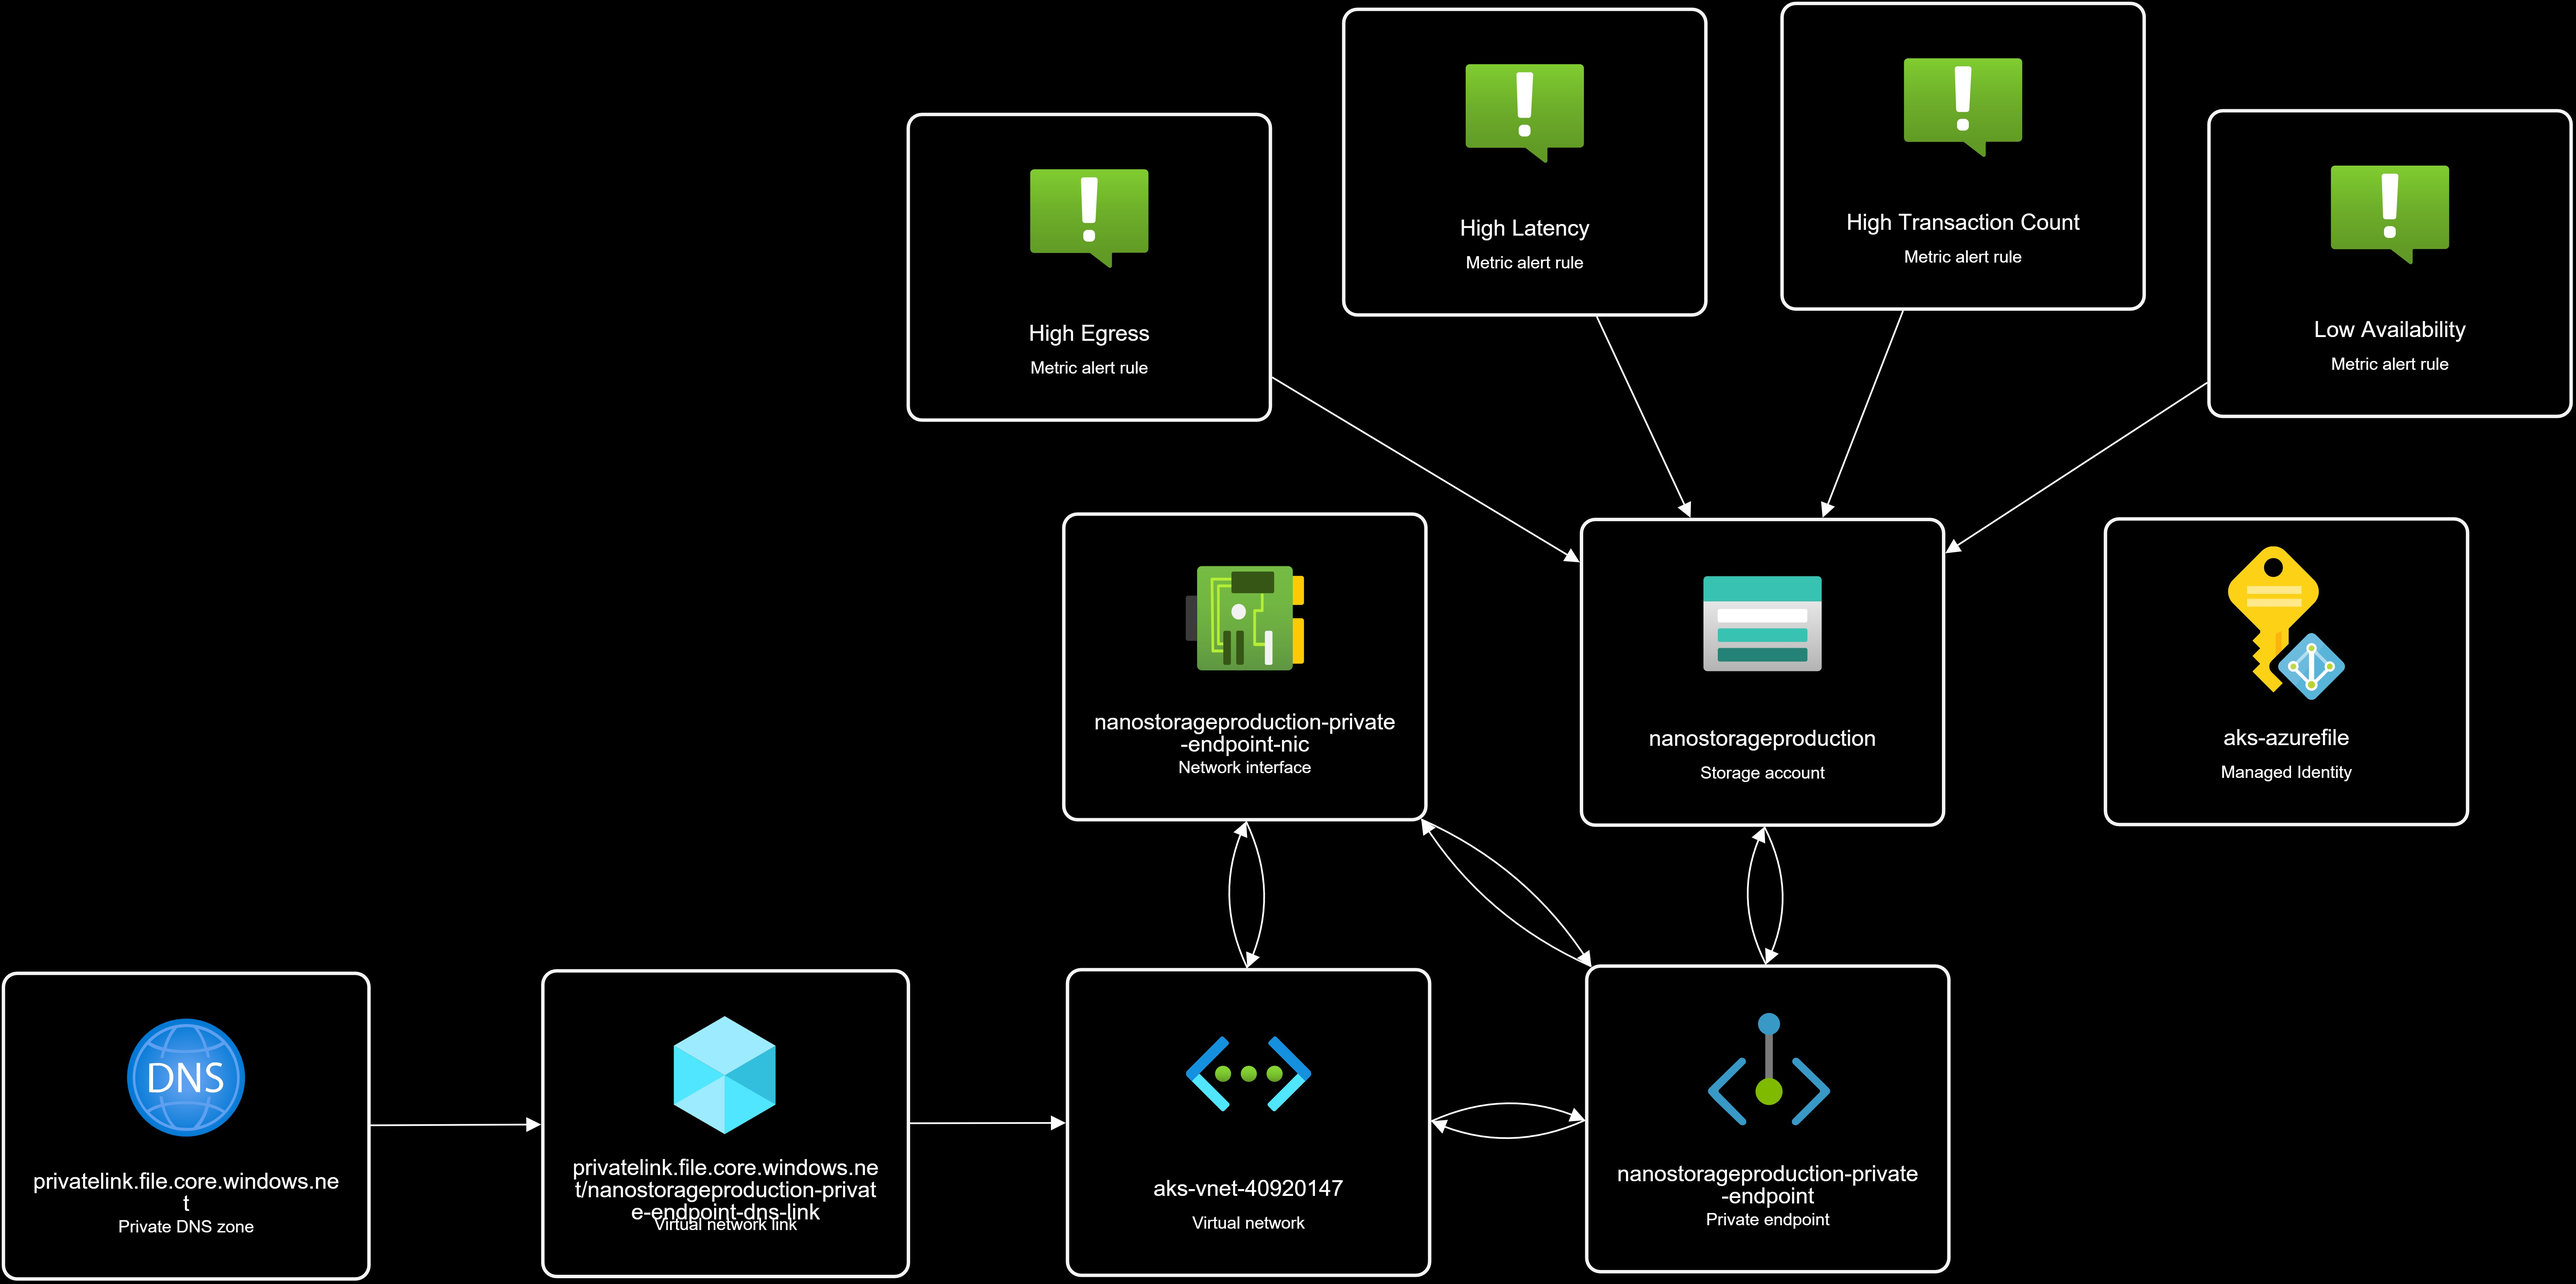
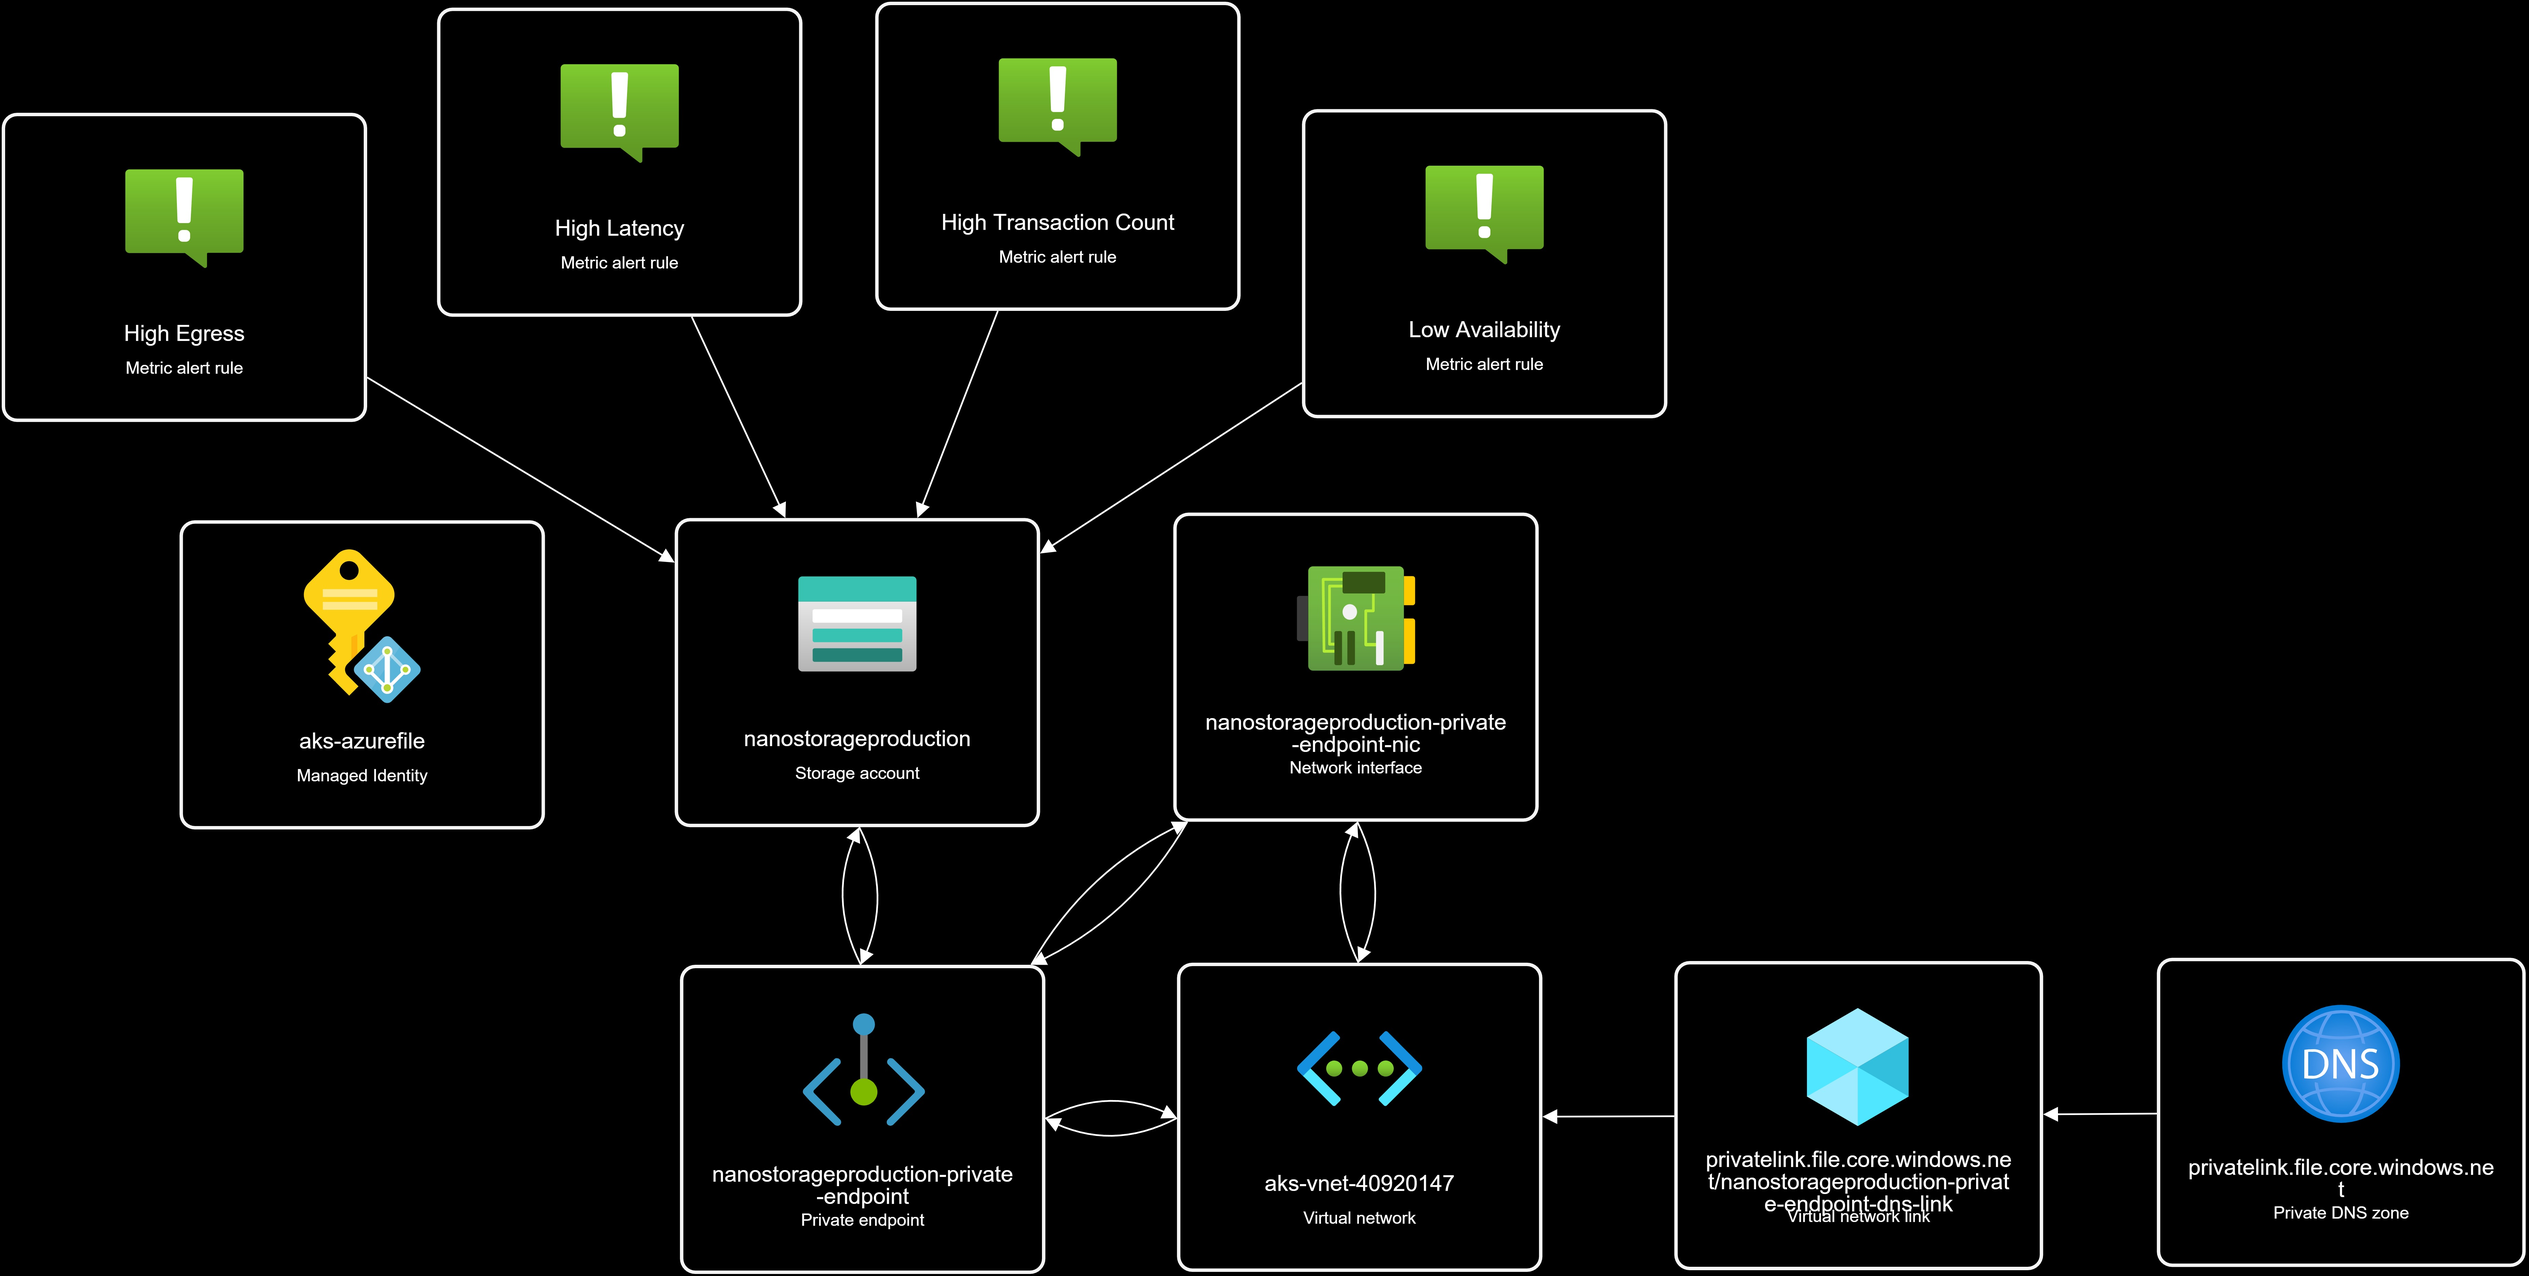
Updated

diff --git a/Nano.Azure.Storage/README.md b/Nano.Azure.Storage/README.md
@@ -27,7 +27,7 @@ Create a storage account to host and provision Azure File Shares for Nano applic
 > 📖 Learn more about **[Azure Storage](https://learn.microsoft.com/azure/storage)**.
 
 #### Azure Diagram
-![Nano Kubernetes Architecture](https://raw.githubusercontent.com/Nano-Core/Nano.Azure/v10.0.0-ga/.assets/Nano-Storage.jpg)
+![Nano Kubernetes Architecture](https://raw.githubusercontent.com/Nano-Core/Nano.Azure/v10.0.0-ga/.assets/Nano-Storage2.jpg)
 
 ## Registration
 Start by registering the required Azure providers and creating the resource group, by executing the top part of the `deploy.ps1`.
